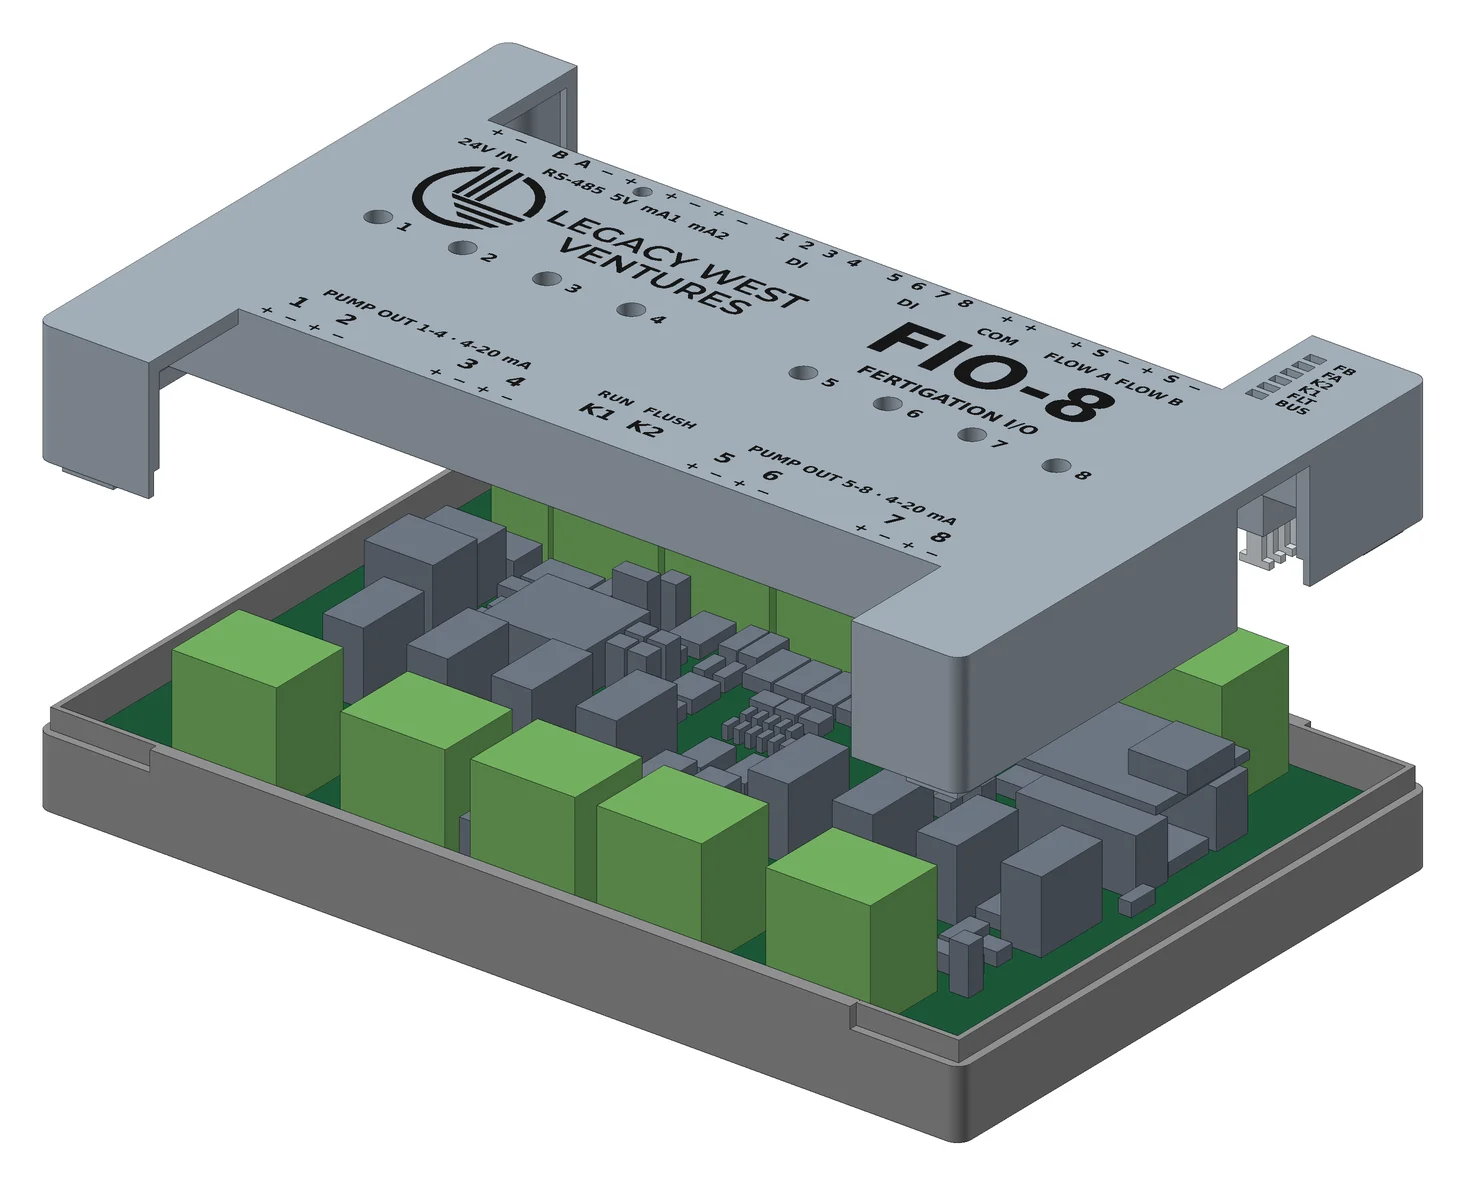
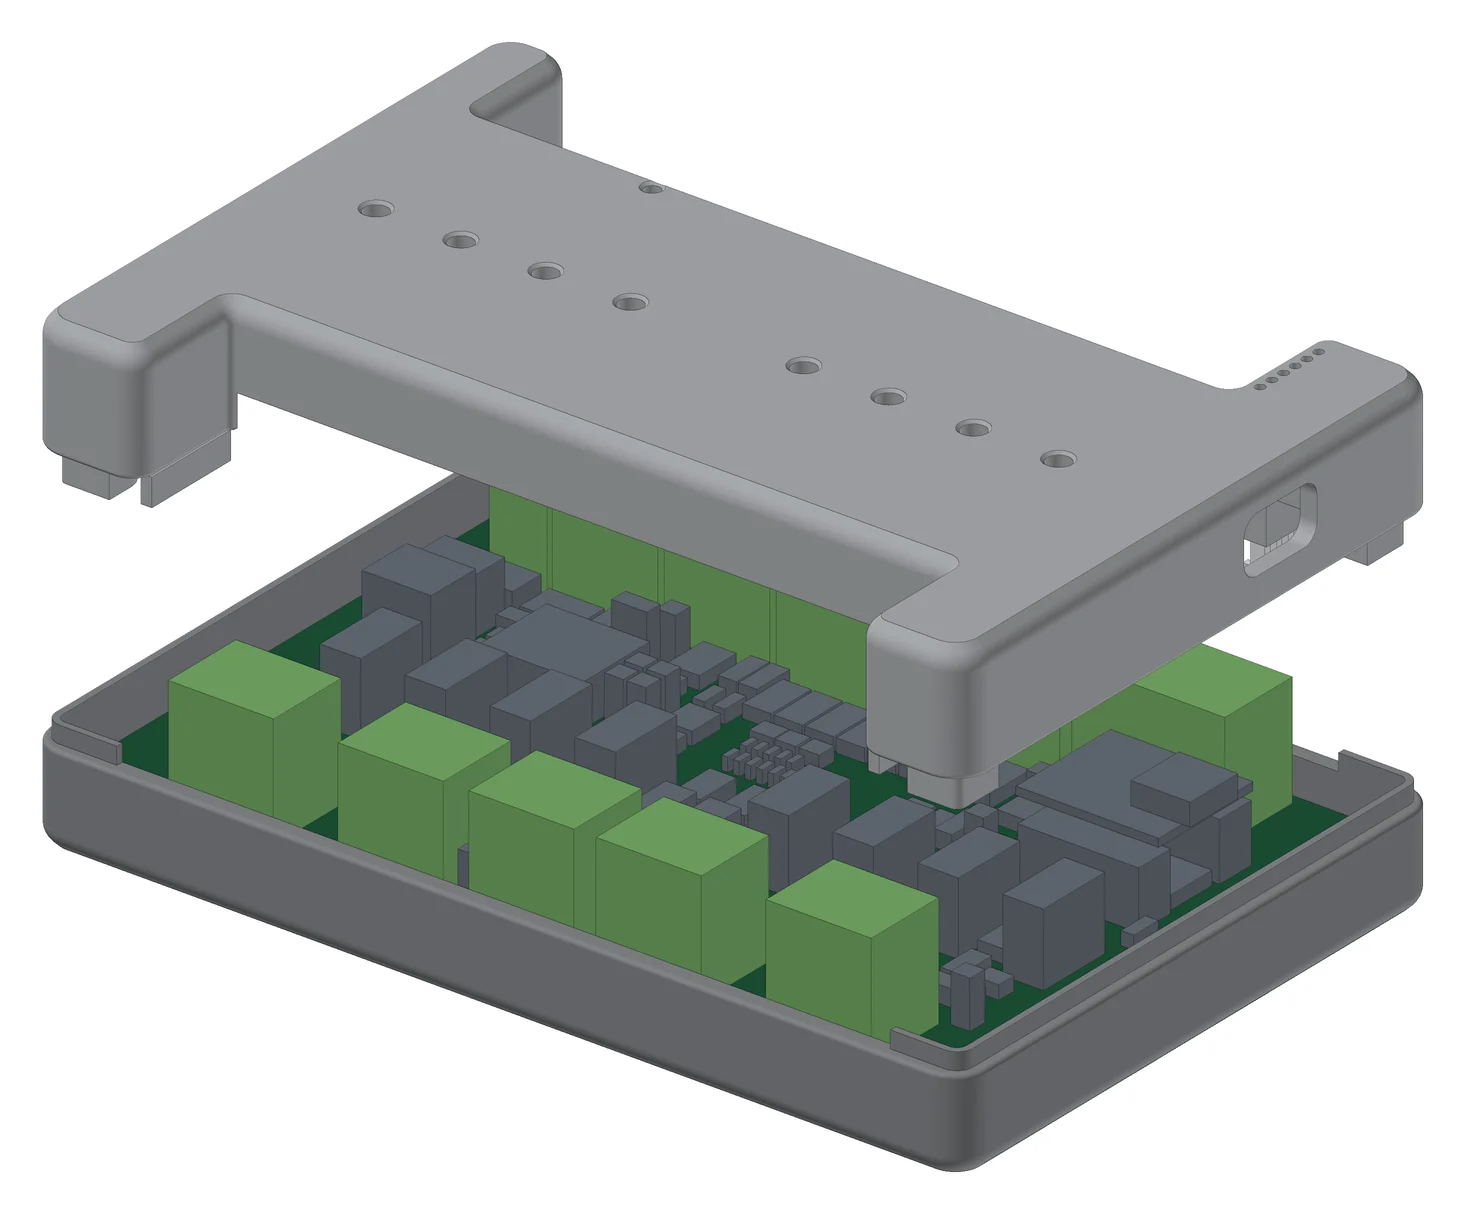
Fertigation page: rev 2 enclosures (no labels, rounded solid shells), probe mounting note

diff --git a/docs/fertigation/fio-8.html b/docs/fertigation/fio-8.html
@@ -493,7 +493,7 @@ footer .logo { height: 28px }
   <!-- 8 -->
   <section id="fiowq">
     <header><span class="kicker">Companion board</span><h2>FIO-WQ: pH and EC measured on the board, in the water line</h2></header>
-    <p class="lead">The FIO-WQ reads two pH electrodes and two conductivity cells, each with its own temperature probe, and hands the readings to the FIO-8 over one four-wire cable. Each of the four measurement circuits is electrically isolated from the others and from the bus, so probes in the same water do not disturb each other and a wiring fault on one stays on one. It checks its own electrodes before it trusts them.</p>
+    <p class="lead">The FIO-WQ reads two pH electrodes and two conductivity cells, each with its own temperature probe, and hands the readings to the FIO-8 over one four-wire cable. Each of the four measurement circuits is electrically isolated from the others and from the bus, so probes in the same water do not disturb each other and a wiring fault on one stays on one. It checks its own electrodes before it trusts them. The board itself stays dry on the DIN rail: the pH electrodes and conductivity cells sit in the water line, in a tee or a flow cell, and their cables run back to the jacks and terminals.</p>
     <figure class="hero-fig">
       <img src="img/fiowq-3d-hero.webp" width="1222" height="771" alt="3D render of the FIO-WQ board: a green circuit board with two BNC jacks and four push-in terminal blocks along the front edge, two bus terminal blocks and a row of status lights along the back, and a plug-in processor module at the right end">
       <figcaption>Rev A, rendered from the production layout with simplified part bodies. The two pH BNC jacks and the probe terminals sit along the front edge; bus in and out and the status lights along the back. Same 132 × 84 mm outline and mounting holes as the FIO-8.</figcaption>
@@ -585,22 +585,22 @@ footer .logo { height: 28px }
 
   <!-- 9 -->
   <section id="enclosures">
-    <header><span class="kicker">Enclosures</span><h2>Printed DIN-rail cases with the labels on the lid</h2></header>
-    <p class="prose">Both boards share one case family: a base tray and a cover, printed in ASA, clipped to 35 mm DIN rail. The terminal ends are open, so wires drop straight into the push-in blocks and the levers flip outward with the cover on. The I/O labels, the board name and the LWV mark are part of the cover, which is why the boards themselves carry no field labels. Four M3 screws pass through the board's own mounting holes and hold board, base and cover together, so nothing moves once the case is closed.</p>
+    <header><span class="kicker">Enclosures</span><h2>Printed DIN-rail cases</h2></header>
+    <p class="prose">Both boards share one case family: a base tray and a cover, printed in ASA with rounded corners and edges, clipped to 35 mm DIN rail. The terminal ends are open, so wires drop straight into the push-in blocks and the levers flip outward with the cover on. The roof is a plain surface: the I/O labels go on as printed stickers, and the four M3 screws that hold board, base and cover together are countersunk underneath.</p>
     <div class="pair">
-      <figure class="map"><img src="img/case-fio8-iso.webp" width="1466" height="952" alt="Render of the FIO-8 in its grey printed DIN-rail case: pump terminals along the front, the sensor and bus terminals along the back, eight channel lights and a status column, the labels and the LWV logo on the cover"><figcaption>FIO-8 case. Pump outputs along the front, inputs and bus along the back, a light per channel and a status column.</figcaption></figure>
-      <figure class="map"><img src="img/case-fiowq-iso.webp" width="1103" height="727" alt="Render of the FIO-WQ in its light grey printed DIN-rail case: two BNC jacks through the front wall between the probe terminal blocks, bus terminals and the status light slot along the back, labels and the LWV logo on the cover"><figcaption>FIO-WQ case. The two BNC jacks pass through the front wall and are held by their own panel nuts; the probe terminals sit beside them.</figcaption></figure>
+      <figure class="map"><img src="img/case-fio8-iso.webp" width="1466" height="924" alt="Render of the FIO-8 in its grey printed DIN-rail case with rounded corners: pump terminals along the front, the sensor and bus terminals along the back, round windows for the channel lights and the status column"><figcaption>FIO-8 case. Pump outputs along the front, inputs and bus along the back, a round window per channel light and for the status column. Labels go on as stickers.</figcaption></figure>
+      <figure class="map"><img src="img/case-fiowq-iso.webp" width="1089" height="718" alt="Render of the FIO-WQ in its light grey printed DIN-rail case with rounded corners: two BNC jacks through the front wall between the probe terminal blocks, bus terminals and the status light slot along the back"><figcaption>FIO-WQ case. The two BNC jacks pass through the front wall and are held by their own panel nuts; the probe terminals sit beside them.</figcaption></figure>
     </div>
     <div class="pair">
-      <figure class="map"><img src="img/case-fio8-exploded.webp" width="1466" height="1186" alt="Exploded render of the FIO-8 case: the cover lifted above the board and the base tray"><figcaption>FIO-8 case, cover lifted.</figcaption></figure>
-      <figure class="map"><img src="img/case-fiowq-exploded.webp" width="1038" height="789" alt="Exploded render of the FIO-WQ case: the cover lifted above the board and the base tray"><figcaption>FIO-WQ case, cover lifted.</figcaption></figure>
+      <figure class="map"><img src="img/case-fio8-exploded.webp" width="1466" height="1215" alt="Exploded render of the FIO-8 case: the cover lifted above the board and the base tray"><figcaption>FIO-8 case, cover lifted.</figcaption></figure>
+      <figure class="map"><img src="img/case-fiowq-exploded.webp" width="1028" height="772" alt="Exploded render of the FIO-WQ case: the cover lifted above the board and the base tray"><figcaption>FIO-WQ case, cover lifted.</figcaption></figure>
     </div>
     <table class="tbl">
       <tbody>
-        <tr><td>Material</td><td>ASA, printed in two parts (base and cover) with an optional second-colour legend. No supports.</td></tr>
+        <tr><td>Material</td><td>ASA, printed in two parts (base and cover), 2.6 mm walls, no supports. Labels as stickers.</td></tr>
         <tr><td>Mounting</td><td>35 mm DIN rail clip under the base. The board is held by four M3 screws through its own mounting holes.</td></tr>
-        <tr><td>FIO-8 case</td><td>137 × 89 × 28 mm, 8 DIN modules. A window over each channel light and a comb over the status column, with optional translucent light pipes; the USB-C port reachable through the end wall.</td></tr>
-        <tr><td>FIO-WQ case</td><td>137 × 90 × 26 mm, 8 DIN modules. BNC jacks through the front wall, held by their own panel nuts; one slot for the status lights.</td></tr>
+        <tr><td>FIO-8 case</td><td>138 × 90 × 31 mm, 8 DIN modules. A round window over each channel light and the status column, with optional translucent light pipes; the USB-C port reachable through the end wall.</td></tr>
+        <tr><td>FIO-WQ case</td><td>138 × 91 × 26 mm, 8 DIN modules. BNC jacks through the front wall on the base-to-cover seam, held by their own panel nuts; one slot for the status lights.</td></tr>
         <tr><td>Wiring</td><td>Open terminal ends; levers reachable with the cover on. USB-C notch on the end wall.</td></tr>
       </tbody>
     </table>
